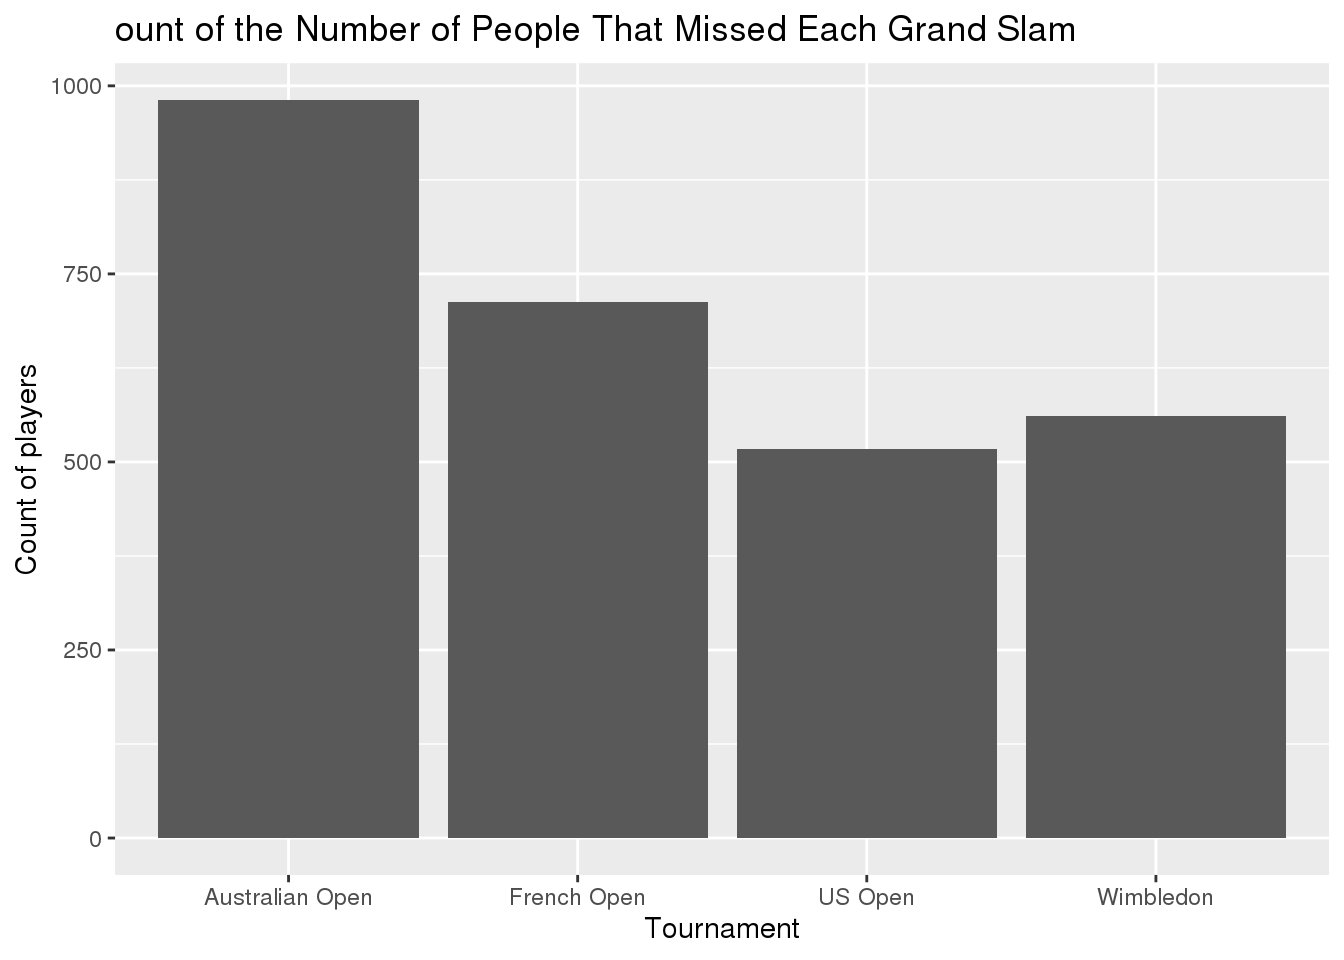
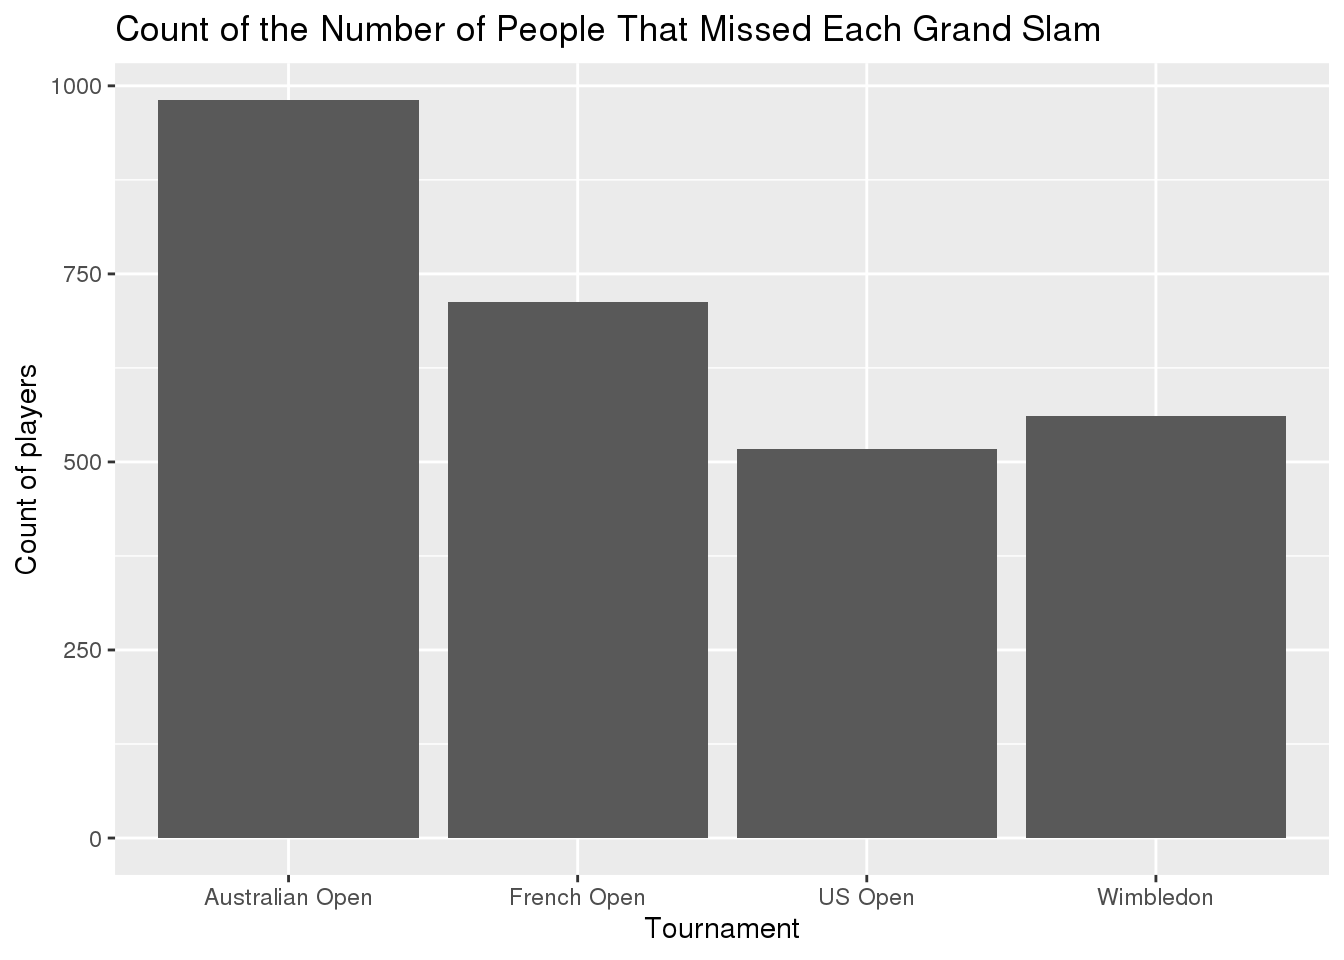
minor changes to both posts

Changed region(s): [[0.0938, 0.0, 0.8125, 0.0625]]

diff --git a/content/post/2020-12-06-spotify-songs/index.html b/content/post/2020-12-06-spotify-songs/index.html
@@ -1,6 +1,6 @@
 ---
-title: Spotify Songs
-author: ~
+title: "Spotify Songs"
+author: 'null'
 date: '2020-12-06'
 slug: spotify-songs
 categories: []
@@ -16,7 +16,6 @@ tags: []
 <pre class="r"><code>library(here)
 library(tidyverse)
 library(ggplot2)
-library(readxl)
 
 dat &lt;- read_csv(here::here(&quot;data&quot;, &quot;spotify_songs.csv&quot;))</code></pre>
 <p>This data set comes from the <code>spotify_songs.csv</code> file on the Tidy Tuesday website. The data consists of 32,833 observations of 23 variables. The variables <code>track_id</code>, <code>track_album_id</code>, and <code>playlist_id</code> are all unique IDs for the track, album, and playlist, respectively. The variables <code>track_name</code>, <code>track_artist</code>, <code>track_album_id</code>, <code>track_album_name</code>, and <code>track_album_release_date</code> are all variables that give details on the track to help with identification. The variables <code>playlist_name</code>, <code>playlist_genre</code>, and <code>playlist_subgenre</code> give information on what type of track it is, in other words what type of playlists it is on. The variables, <code>danceability</code>, <code>energy</code>, <code>key</code>, <code>loudness</code>, <code>mode</code>, <code>speechiness</code>, <code>acousticness</code>, <code>instrumentalness</code>, <code>liveness</code>, <code>valence</code>, and <code>tempo</code> describe different characteristics of the track using a numeric scale. The last variable <code>duration_ms</code> gives the duration of the track in milliseconds.</p>

diff --git a/content/post/2020-12-08-tennis-grand-slams/index.html b/content/post/2020-12-08-tennis-grand-slams/index.html
@@ -1,6 +1,6 @@
 ---
-title: Tennis Grand Slams
-author: ~
+title: "Tennis Grand Slams"
+author: 'null'
 date: '2020-12-08'
 slug: tennis-grand-slams
 categories: []
@@ -16,7 +16,6 @@ tags: []
 <pre class="r"><code>library(here)
 library(tidyverse)
 library(ggplot2)
-library(readxl)
 
 dat1 &lt;- read_csv(here::here(&quot;data&quot;, &quot;grand_slam_timeline.csv&quot;))
   
@@ -98,7 +97,7 @@ dat3 &lt;- read_csv(here::here(&quot;data&quot;, &quot;player_dob.csv&quot;))</c
   filter(outcome == &quot;Absent&quot;) %&gt;%
   ggplot(., aes(x = tournament)) +
   geom_bar() +
-  ggtitle(&quot;ount of the Number of People That Missed Each Grand Slam&quot;) +
+  ggtitle(&quot;Count of the Number of People That Missed Each Grand Slam&quot;) +
   xlab(&quot;Tournament&quot;) +
   ylab(&quot;Count of players&quot;)</code></pre>
 <p><img src="index_files/figure-html/unnamed-chunk-5-1.png" width="672" /></p>
